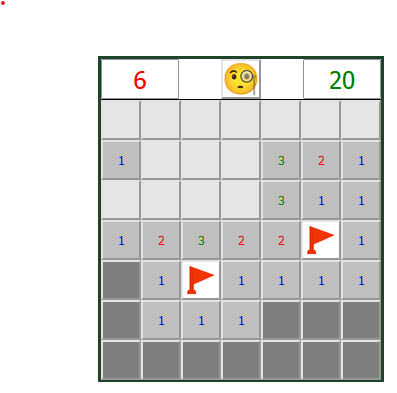
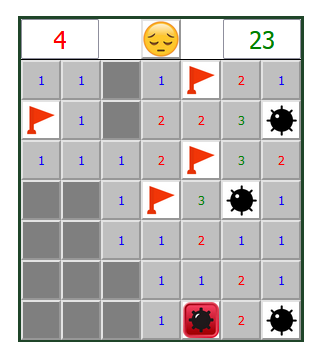
border removed

diff --git a/portfolio.css b/portfolio.css
@@ -1,9 +1,6 @@
-/* *{
-    border: 1px solid black;
-} */
+
 html{
     height:100%;
-    /* width: 100%; */
     background-image:linear-gradient(to bottom right,rgb(112, 174, 202),green);
 }
 
@@ -21,7 +18,11 @@ h2>a{
     text-decoration: none; 
 }
 h2>a:hover{
-    color:violet;
+    opacity:.5;
+}
+h2,h2>a:visited{
+    text-decoration: none;
+    color:rgb(10, 48, 24);
 }
 #container{
     display:flex;
@@ -32,7 +33,6 @@ h2>a:hover{
 .menu{
     width:25vw;
     height:60vh;
-    border:1px solid black;
 }
 .screenshot{
     max-width:100%;

diff --git a/index.html b/index.html
@@ -20,7 +20,7 @@
         </div>
         <div class="menu">
             <h2><a href=".\minesweeper\gridGenerate.html">Minesweeper</a></h2>
-            <a href=".\minesweeper\gridGenerate.html"><img class="screenshot" src=".\assets\img\minesweeperI2.png" alt="minesweeper screenshot"/></a>
+            <a href=".\minesweeper\gridGenerate.html"><img class="screenshot" src=".\assets\img\minesweeper.png" alt="minesweeper screenshot"/></a>
         </div>
 
     </div>
